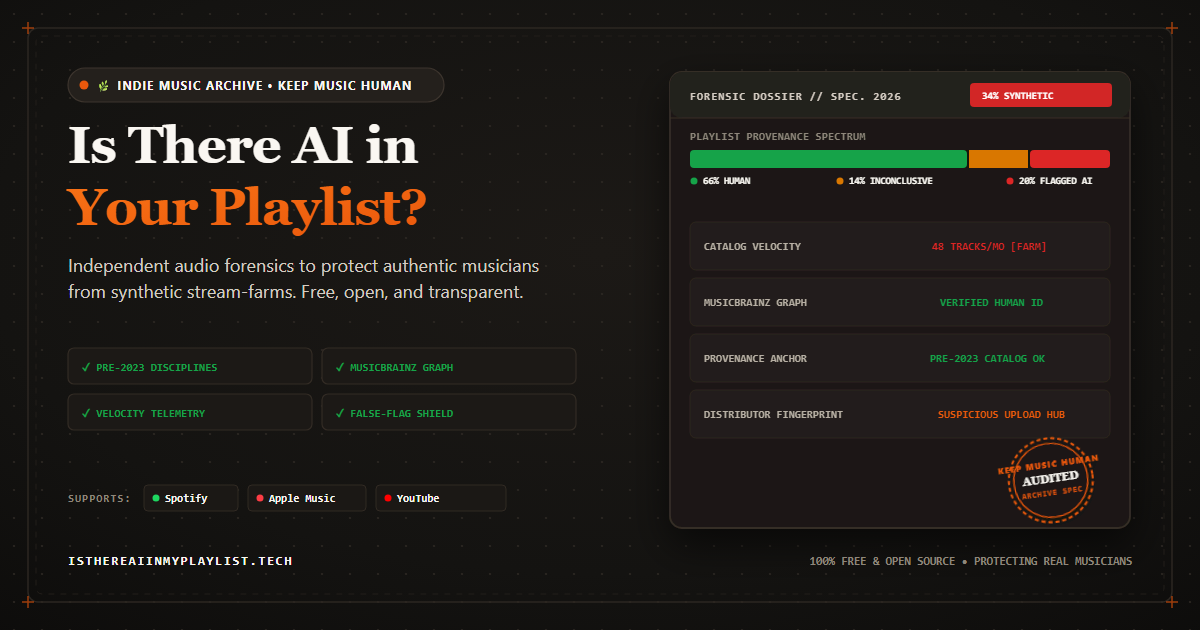
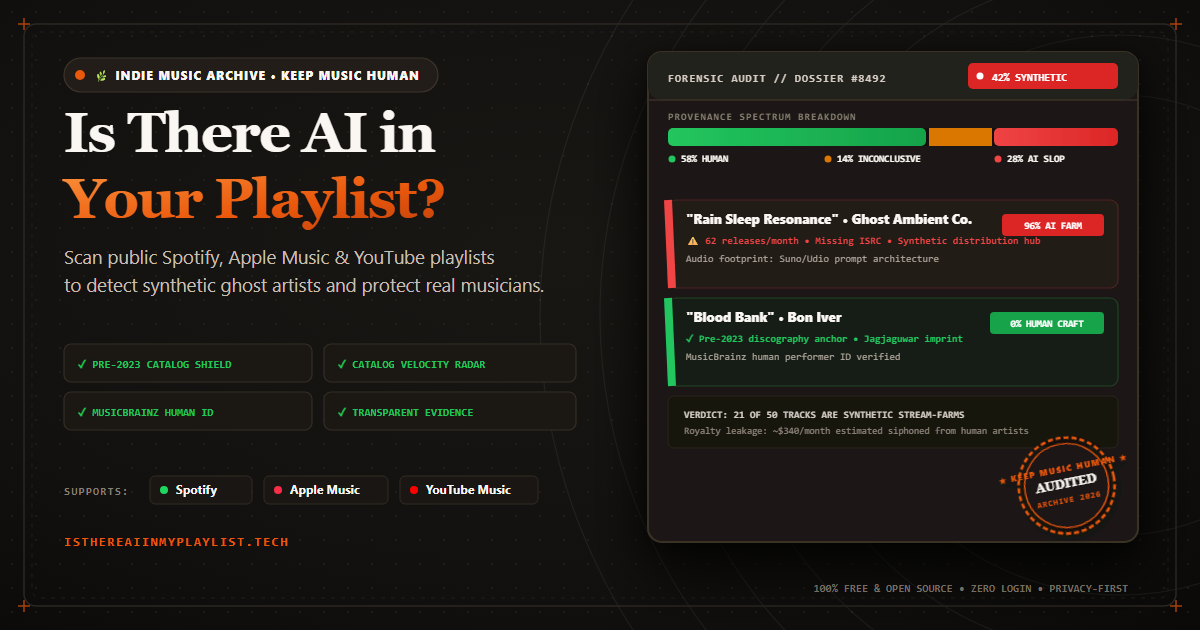
feat(og): enhance social card with real-world track audit comparison and vinyl grooves

diff --git a/public/index.html b/public/index.html
@@ -20,7 +20,7 @@
   <meta property="og:title" content="Is There AI in Your Playlist? — Keep Music Human" />
   <meta property="og:description" content="Independent audio forensics to protect authentic musicians from synthetic stream-farms. Free, open-source playlist inspector for Spotify, Apple Music &amp; YouTube." />
   <meta property="og:site_name" content="Is There AI In My Playlist" />
-  <meta property="og:image" content="https://isthereaiinmyplaylist.tech/og-image.png?v=3" />
+  <meta property="og:image" content="https://isthereaiinmyplaylist.tech/og-image.png?v=4" />
   <meta property="og:image:width" content="1200" />
   <meta property="og:image:height" content="630" />
   <meta property="og:image:type" content="image/png" />
@@ -31,7 +31,7 @@
   <meta name="twitter:url" content="https://isthereaiinmyplaylist.tech/" />
   <meta name="twitter:title" content="Is There AI in Your Playlist? — Keep Music Human" />
   <meta name="twitter:description" content="Independent audio forensics to protect authentic musicians from synthetic stream-farms. Free, open-source playlist inspector for Spotify, Apple Music &amp; YouTube." />
-  <meta name="twitter:image" content="https://isthereaiinmyplaylist.tech/og-image.png?v=3" />
+  <meta name="twitter:image" content="https://isthereaiinmyplaylist.tech/og-image.png?v=4" />
   <meta name="twitter:image:alt" content="Is There AI in Your Playlist? — Humanist Audio Archive &amp; Forensic Dossier" />
 
   <!-- Structured Data (JSON-LD) for Google Search Rich Results -->
@@ -41,7 +41,7 @@
     "@type": "WebApplication",
     "name": "Is There AI In My Playlist",
     "url": "https://isthereaiinmyplaylist.tech/",
-    "image": "https://isthereaiinmyplaylist.tech/og-image.png?v=3",
+    "image": "https://isthereaiinmyplaylist.tech/og-image.png?v=4",
     "applicationCategory": "MultimediaApplication",
     "operatingSystem": "Web",
     "description": "Inspect public playlists, single tracks, and artists from Spotify, Apple Music, and YouTube for AI-generated music using catalog forensics, MusicBrainz verification, and audio stream telemetry.",
